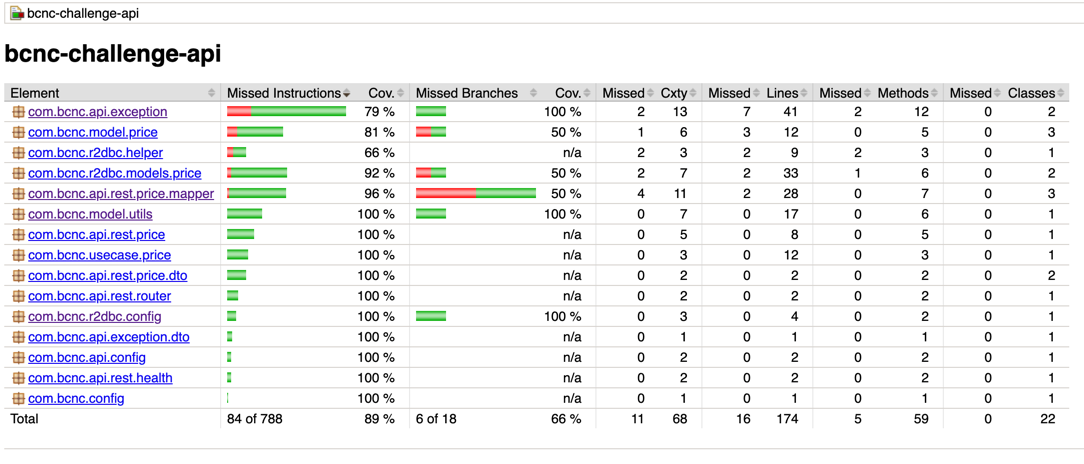
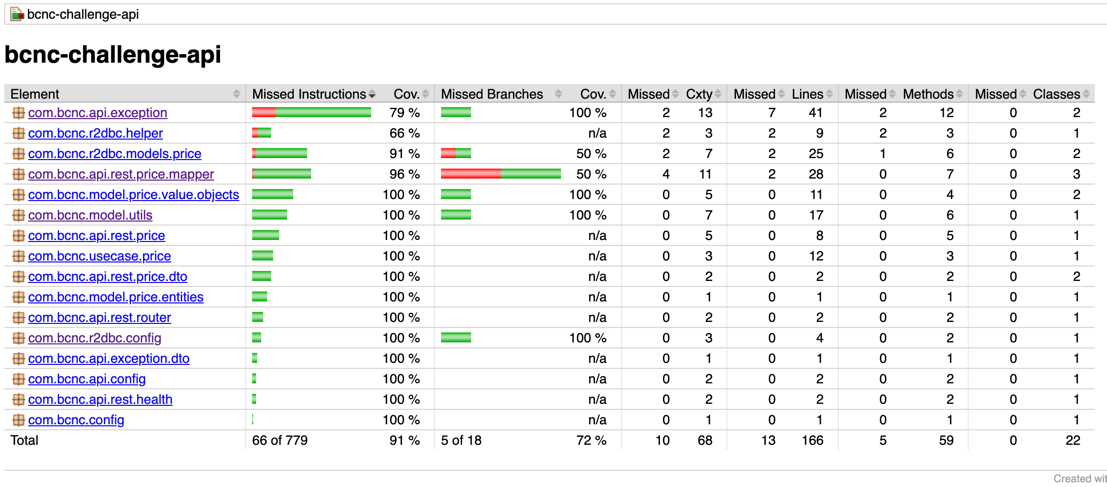
add unit tests for FinalPrice, PriceParam, and Price classes

Changed region(s): [[0.0, 0.0905, 1.0, 0.9353], [0.0, 0.0, 0.1522, 0.0603], [0.9437, 0.9655, 1.0, 0.9957]]

diff --git a/domain/model/src/test/java/com/bcnc/model/price/entities/PriceTest.java b/domain/model/src/test/java/com/bcnc/model/price/entities/PriceTest.java
@@ -1,0 +1,76 @@
+package com.bcnc.model.price.entities;
+
+import static org.junit.jupiter.api.Assertions.assertAll;
+import static org.junit.jupiter.api.Assertions.assertEquals;
+
+import java.time.LocalDateTime;
+import org.junit.jupiter.api.Test;
+
+class PriceTest {
+
+  private static final Long BRAND_ID = 1L;
+  private static final LocalDateTime START_DATE = LocalDateTime.of(2023, 10, 1, 0, 0);
+  private static final LocalDateTime END_DATE = LocalDateTime.of(2023, 10, 2, 0, 0);
+  private static final Integer PRICE_LIST = 1;
+  private static final Long PRODUCT_ID = 100L;
+  private static final int PRIORITY = 1;
+  private static final double PRICE = 50.0;
+  private static final String CURRENCY_EUR = "EUR";
+  private static final double MODIFIED_PRICE = 60.0;
+  private static final String CURRENCY_USD = "USD";
+
+  @Test
+  void shouldCreatePriceWithCorrectValues() {
+    Price priceEntity = Price.builder()
+        .brandId(BRAND_ID)
+        .startDate(START_DATE)
+        .endDate(END_DATE)
+        .priceList(PRICE_LIST)
+        .productId(PRODUCT_ID)
+        .priority(PRIORITY)
+        .price(PRICE)
+        .currency(CURRENCY_EUR)
+        .build();
+
+    assertAll(
+        () -> assertEquals(BRAND_ID, priceEntity.brandId()),
+        () -> assertEquals(START_DATE, priceEntity.startDate()),
+        () -> assertEquals(END_DATE, priceEntity.endDate()),
+        () -> assertEquals(PRICE_LIST, priceEntity.priceList()),
+        () -> assertEquals(PRODUCT_ID, priceEntity.productId()),
+        () -> assertEquals(PRIORITY, priceEntity.priority()),
+        () -> assertEquals(PRICE, priceEntity.price()),
+        () -> assertEquals(CURRENCY_EUR, priceEntity.currency())
+    );
+  }
+
+  @Test
+  void shouldAllowModificationUsingToBuilder() {
+    Price originalPrice = Price.builder()
+        .brandId(BRAND_ID)
+        .startDate(START_DATE)
+        .endDate(END_DATE)
+        .priceList(PRICE_LIST)
+        .productId(PRODUCT_ID)
+        .priority(PRIORITY)
+        .price(PRICE)
+        .currency(CURRENCY_EUR)
+        .build();
+
+    Price modifiedPrice = originalPrice.toBuilder()
+        .price(MODIFIED_PRICE)
+        .currency(CURRENCY_USD)
+        .build();
+
+    assertAll(
+        () -> assertEquals(MODIFIED_PRICE, modifiedPrice.price()),
+        () -> assertEquals(CURRENCY_USD, modifiedPrice.currency()),
+        () -> assertEquals(originalPrice.brandId(), modifiedPrice.brandId()),
+        () -> assertEquals(originalPrice.startDate(), modifiedPrice.startDate()),
+        () -> assertEquals(originalPrice.endDate(), modifiedPrice.endDate()),
+        () -> assertEquals(originalPrice.priceList(), modifiedPrice.priceList()),
+        () -> assertEquals(originalPrice.productId(), modifiedPrice.productId()),
+        () -> assertEquals(originalPrice.priority(), modifiedPrice.priority())
+    );
+  }
+}

diff --git a/domain/model/src/test/java/com/bcnc/model/price/value/objects/PriceParamTest.java b/domain/model/src/test/java/com/bcnc/model/price/value/objects/PriceParamTest.java
@@ -1,0 +1,48 @@
+package com.bcnc.model.price.value.objects;
+
+import static org.junit.jupiter.api.Assertions.*;
+
+import com.bcnc.model.exception.ErrorFormatToLocalDateException;
+import java.time.LocalDateTime;
+import org.junit.jupiter.api.Test;
+
+class PriceParamTest {
+
+  @Test
+  void shouldConvertValidConsultationDateToLocalDateTime() {
+    PriceParam priceParam = PriceParam.builder()
+        .brandId(1L)
+        .productId(100L)
+        .consultationDate("2023-10-01 15:30:00")
+        .build();
+
+    assertEquals(LocalDateTime.of(2023, 10, 1, 15, 30, 0), priceParam.toLocalDateTime());
+  }
+
+  @Test
+  void shouldAddDefaultTimeWhenDateHasNoTime() {
+    PriceParam priceParam = PriceParam.builder()
+        .brandId(1L)
+        .productId(100L)
+        .consultationDate("2023-10-01")
+        .build();
+
+    assertEquals(LocalDateTime.of(2023, 10, 1, 0, 0, 0), priceParam.toLocalDateTime());
+  }
+
+  @Test
+  void shouldThrowExceptionForInvalidDateFormat() {
+    PriceParam priceParam = PriceParam.builder()
+        .brandId(1L)
+        .productId(100L)
+        .consultationDate("invalid-date")
+        .build();
+
+    ErrorFormatToLocalDateException exception = assertThrows(
+        ErrorFormatToLocalDateException.class,
+        priceParam::toLocalDateTime
+    );
+
+    assertTrue(exception.getMessage().contains("Formato de fecha no válido"));
+  }
+}

diff --git a/domain/model/src/test/java/com/bcnc/model/price/value/objects/FinalPriceTest.java b/domain/model/src/test/java/com/bcnc/model/price/value/objects/FinalPriceTest.java
@@ -1,0 +1,31 @@
+package com.bcnc.model.price.value.objects;
+
+import static org.junit.jupiter.api.Assertions.assertAll;
+import static org.junit.jupiter.api.Assertions.assertEquals;
+
+import java.time.LocalDateTime;
+import org.junit.jupiter.api.Test;
+
+class FinalPriceTest {
+
+  @Test
+  void shouldCreateFinalPriceWithCorrectValues() {
+    FinalPrice finalPrice = FinalPrice.builder()
+        .productId(100L)
+        .brandId(1L)
+        .priceList(1)
+        .startDate(LocalDateTime.of(2023, 10, 1, 0, 0))
+        .endDate(LocalDateTime.of(2023, 10, 2, 0, 0))
+        .price(50.0)
+        .build();
+
+    assertAll(
+        () -> assertEquals(100L, finalPrice.productId()),
+        () -> assertEquals(1L, finalPrice.brandId()),
+        () -> assertEquals(1, finalPrice.priceList()),
+        () -> assertEquals(LocalDateTime.of(2023, 10, 1, 0, 0), finalPrice.startDate()),
+        () -> assertEquals(LocalDateTime.of(2023, 10, 2, 0, 0), finalPrice.endDate()),
+        () -> assertEquals(50.0, finalPrice.price())
+    );
+  }
+}
